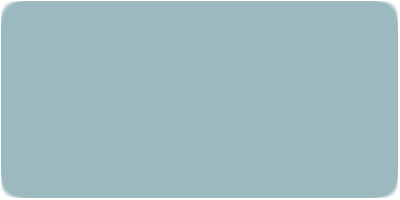
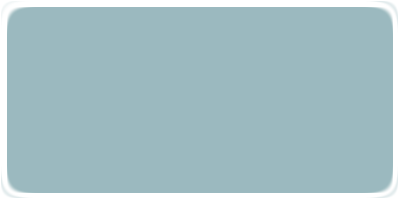
added delay updated victory background

Changed region(s): [[0.0, 0.0, 1.0, 0.99]]

diff --git a/Game/core/src/com/grnn/chess/states/PlayState.java b/Game/core/src/com/grnn/chess/states/PlayState.java
@@ -74,6 +74,7 @@ public class PlayState extends State {
     private float confettiY;
     private float confettiX;
     private Label victoryLabel;
+    private boolean isOkToSwitchState = false;
 
     /**
      * @param gsm      Game state
@@ -347,7 +348,7 @@ public class PlayState extends State {
         batch.draw(victoryTex, bgBoard.getWidth() / 2 - victoryTex.getWidth() / 2, Gdx.graphics.getHeight() / 2 - victoryTex.getHeight() / 2);
         victoryLabel.setText(victoryMsg);
 
-        if (Gdx.input.justTouched()) {
+        if (Gdx.input.justTouched() && isOkToSwitchState) {
             game.endGame(result1, result2, playerData);
             gsm.set(new ShowStatsState(gsm, game.getPlayer1(), playerData));
         }
@@ -357,6 +358,7 @@ public class PlayState extends State {
             TextureRegion currentFrame = confettiAnimation.getKeyFrame(frameCounter, true);
             batch.draw(currentFrame, confettiX, confettiY);
             if (currentFrame.equals(finalConfettiImg)) {
+                isOkToSwitchState = true;
                 Random r = new Random();
                 confettiX = r.nextInt(Gdx.graphics.getWidth() - confettiSheet.getWidth() / 5);
                 confettiY = r.nextInt(Gdx.graphics.getHeight() - confettiSheet.getHeight() / 5);
